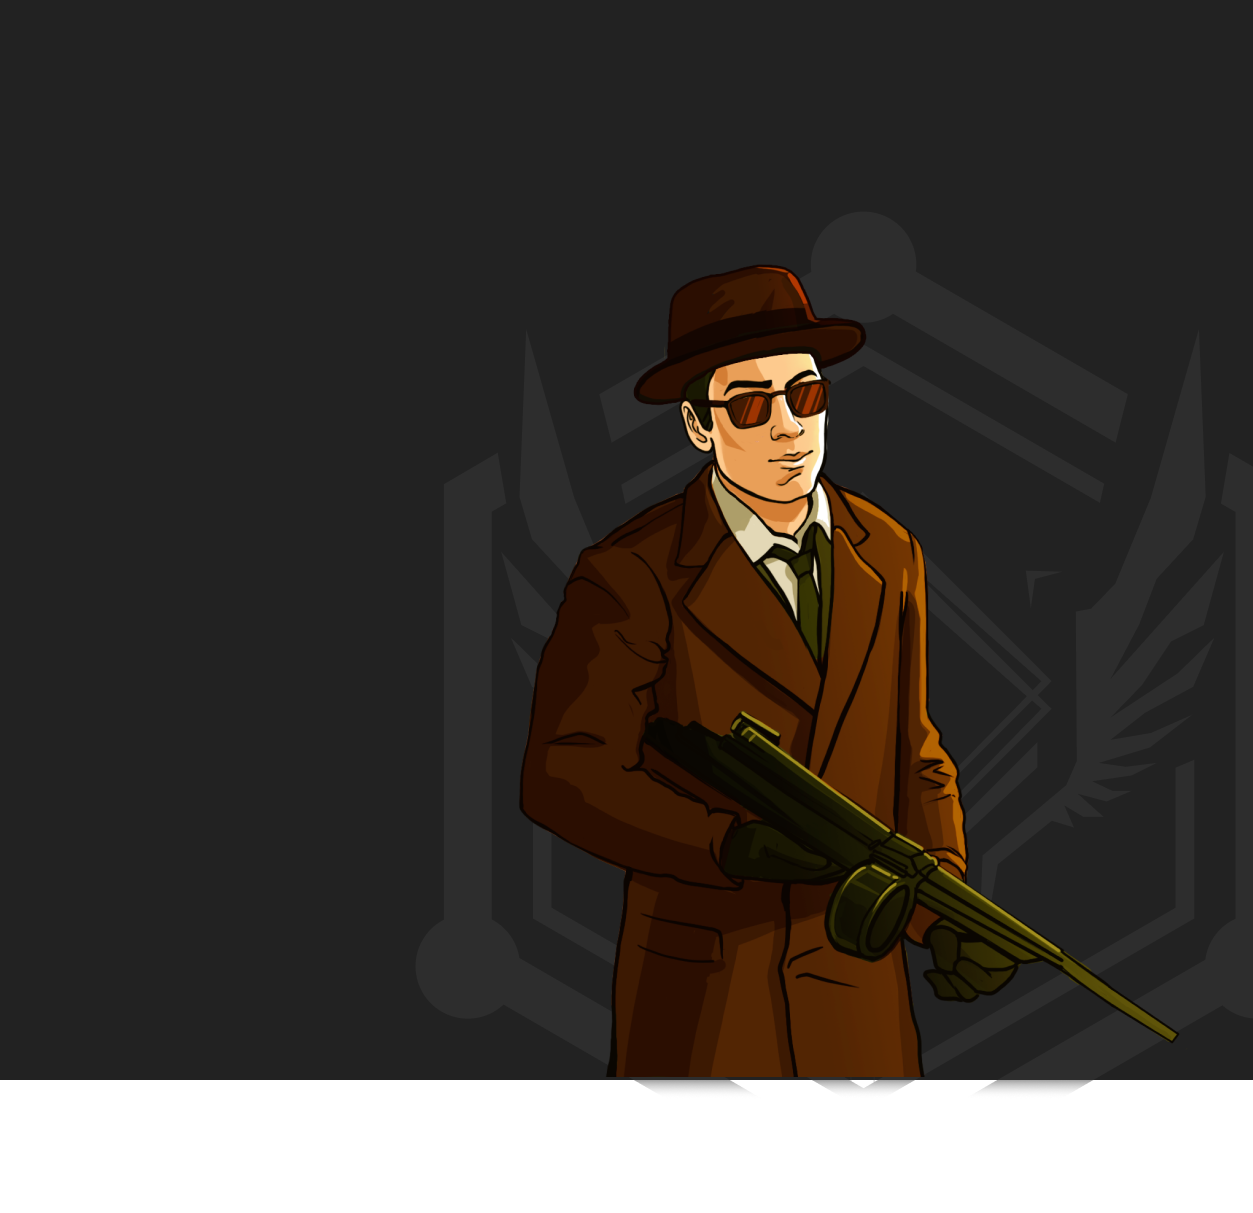
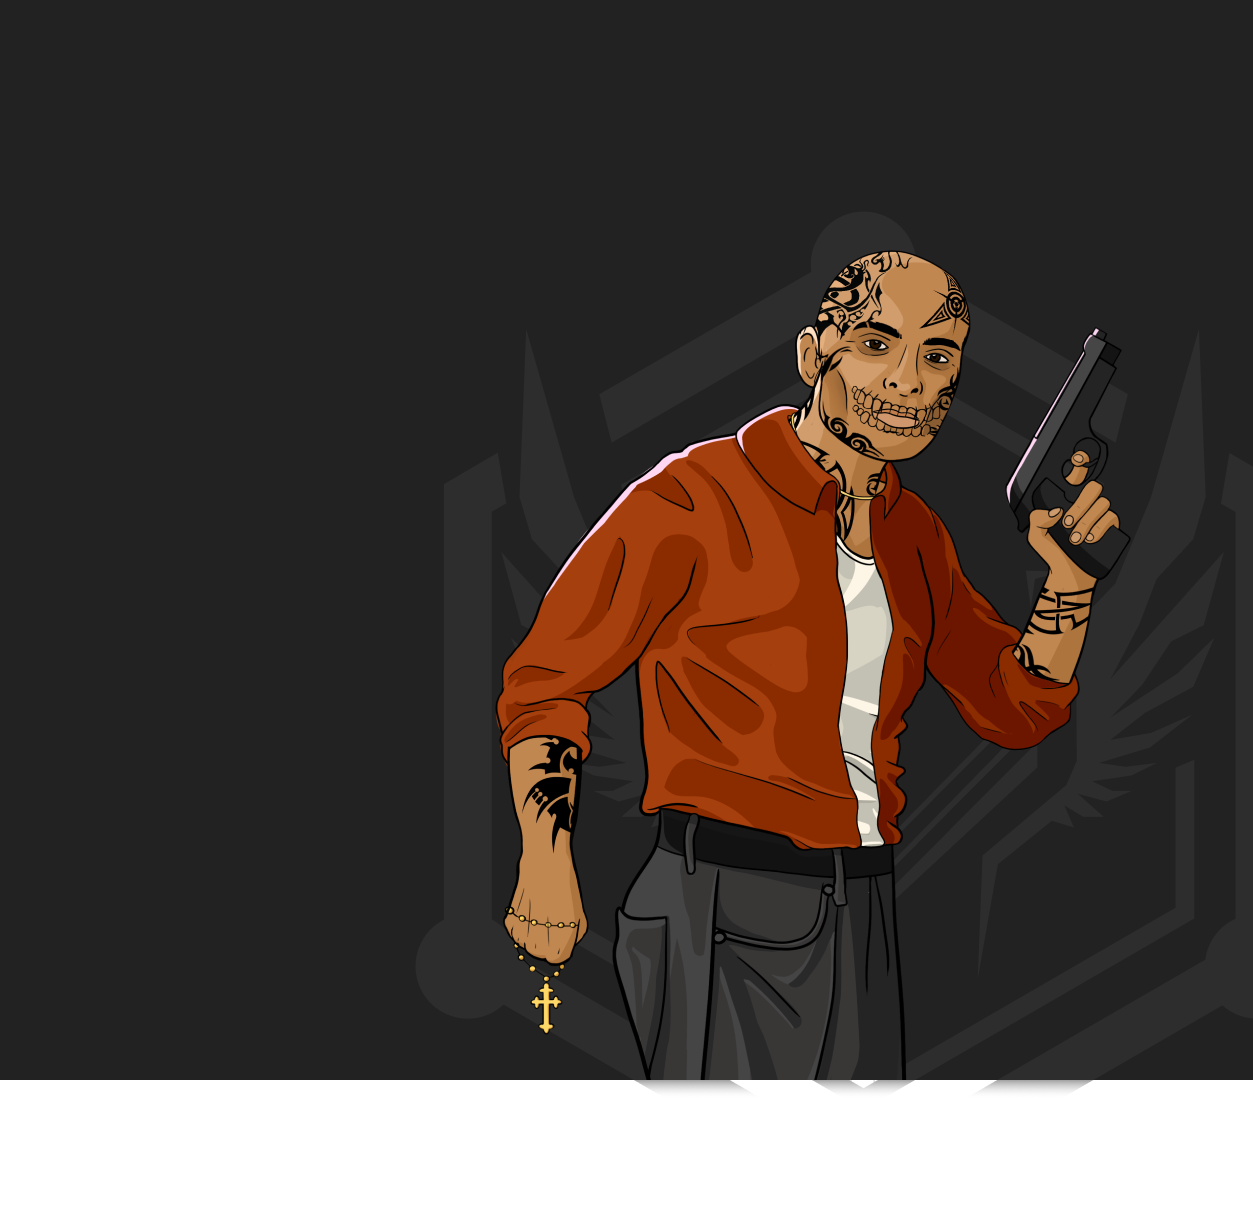
fix: map, boosts; feat: add images to cartel

Changed region(s): [[0.3735, 0.183, 0.9338, 0.9151]]

diff --git a/src/components/Cartel/components/ImageInfo/ImageInfo.jsx b/src/components/Cartel/components/ImageInfo/ImageInfo.jsx
@@ -1,7 +1,7 @@
 import React from "react";
 import classnames from "classnames";
 import {OpenImage} from '../OpenImage'
-import { cartelbgImage, logoCartel} from "./images";
+import { cartelbgImage, triadabgImage, cosanostrabgImage, russiansbgImage, logoCartel} from "./images";
 import styles from "./ImageInfo.module.css"
 
 const ImageInfo = ({active, image, setActiveImage, id, text, activeImage}) => {
@@ -17,21 +17,21 @@ const ImageInfo = ({active, image, setActiveImage, id, text, activeImage}) => {
             id: 2,
             header: "Russians",
             description: "The Russians are from CIS countries, some of them have done more than one term before getting into the gang. Every one of them could be put away for a lot of time if the gang weakened, but now the cops and everyone around them are afraid to deal with them.",
-            image: cartelbgImage,
+            image: russiansbgImage,
             logo: logoCartel,
         },
         {  
             id: 3,
             header: "Triada",
             description: "Triad - gangs within which there is strict discipline and hierarchy, these guys are organized and well prepared to deal with any issues with any people. They have no such thing as fear, such a feeling that each of them will be ready to go out alone against a dozen.",
-            image: cartelbgImage,
+            image: triadabgImage,
             logo: logoCartel,
         },
         {  
             id: 4,
             header: "Cosa nostra",
             description: "Casa Nostra - calculating and judicious, these guys solve issues without too much fuss and noise, but the consequences are like shouting that the Cosa Nostra do not play by small things - they take everything and at once.",
-            image: cartelbgImage,
+            image: cosanostrabgImage,
             logo: logoCartel,
         },
     ]

diff --git a/src/components/Map/Map.jsx b/src/components/Map/Map.jsx
@@ -24,12 +24,12 @@ const Map = () => {
     //   });
     return(
         <div className={styles.container} id={'map'}>
-            <img src={legend} alt="" className={styles.legend}/>
+            
             <div className={styles.imagep} ref={imageRef}> 
+                <img src={legend} alt="" className={styles.legend}/>
                 <div className={styles.header}>Game Map</div>
                 <div className={styles.text}>Discover, who rules in this city</div>
                 <img src={mapsvg} alt="map" className={styles.mapTablet}/>
-                <image width="100%" height="100%" x="0" y="0" xlinkHref={mapsvg} fill="white" opacity="1" className={styles.svgImage}></image>
                 <svg x="0px" y="0px" height="100%" width={'100%'} viewBox="0 0 1874 1076" className={styles.svgImage}>
                     <mask id="mask">
                         <rect width="100%" height="100%" x="0" y="0" fill="white" opacity="1"/>

diff --git a/src/components/Boosts/Boosts.jsx b/src/components/Boosts/Boosts.jsx
@@ -16,7 +16,8 @@ import {
     armorBullet3,
     armorBullet4,
     rightArrow,
-    leftArrow
+    leftArrow,
+    alibi,
 } from "./images";
 
 const Boosts = () => {
@@ -98,7 +99,7 @@ const Boosts = () => {
                 {
                     id: 1,
                     name: 'Alibi',
-                    image: null,
+                    image: alibi,
                     description: 'An alibi keeps you out of jail if the district you are in is raided by cops.',
                     bonus:[],
                 },
@@ -139,8 +140,8 @@ const Boosts = () => {
             ]
         },
     ]
-    const onChange = (currentSlide) => {
-        setCurrentInfo(currentSlide===3 ? 0 : currentSlide+1)
+    const onChange = (currentSlide, nextSlide) => {
+        setCurrentInfo(nextSlide)
     }
     return(
         <div className={styles.container} id={'boosts'}>

diff --git a/src/components/Map/Map.module.css b/src/components/Map/Map.module.css
@@ -21,13 +21,14 @@
     line-height: 44px;
     color: white;
     position: absolute;
-    bottom: 130px;
+    bottom: 5%;
 }
 .legend{
     position: absolute;
     right: 2%;
     bottom: 3%;
     z-index: 2;
+    width: 12%;
 }
 .mask{
     position: absolute;
@@ -39,7 +40,7 @@
     height: 100%;
 }
 .imagep{
-  height: 110%;
+  height: 100%;
   background: url('../../static/map.png');
   object-fit: cover;
   object-position: center;
@@ -51,9 +52,14 @@
 }
 .imageMask{
     z-index: 1;
+    margin-top: -10px;
 }
 .mapTablet{
     display: none;
+}
+.svgImage{
+    margin-top: -3px;
+    height: 101%;
 }
 @media (max-width:1000px) {
     .container{

diff --git a/src/components/Cartel/components/ImageInfo/images/index.js b/src/components/Cartel/components/ImageInfo/images/index.js
@@ -1,2 +1,5 @@
 export {default as cartelbgImage} from './cartelImage.png'
+export {default as russiansbgImage} from './russiansImage.png'
+export {default as triadabgImage} from './triadaImage.png'
+export {default as cosanostrabgImage} from './cosanostraImage.png'
 export {default as logoCartel} from './logoCartel.png'

diff --git a/src/components/Boosts/images/index.js b/src/components/Boosts/images/index.js
@@ -12,3 +12,4 @@ export {default as weapon3} from './weapons_usi.png'
 export {default as weapon4} from './weapons_machineGun.png'
 export {default as leftArrow} from './leftArrow.png'
 export {default as rightArrow} from './rightArrow.png'
+export {default as alibi} from './alibi.png'

diff --git a/src/components/Menu/Menu.module.css b/src/components/Menu/Menu.module.css
@@ -39,8 +39,9 @@
 }
 .close{
     position: absolute;
+    width: 80px;
     right: 25px;
-    top: 50px;
+    top: 30px;
     cursor: pointer;
     transition: all .2s;
 }
